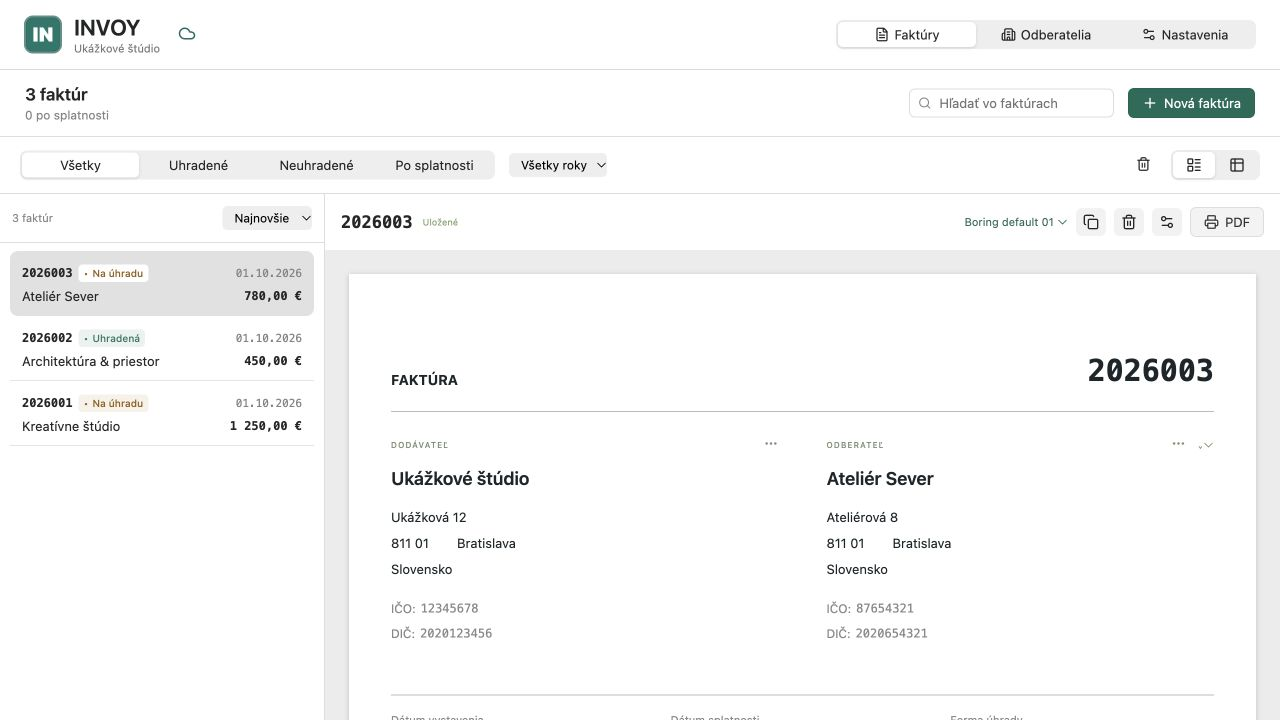
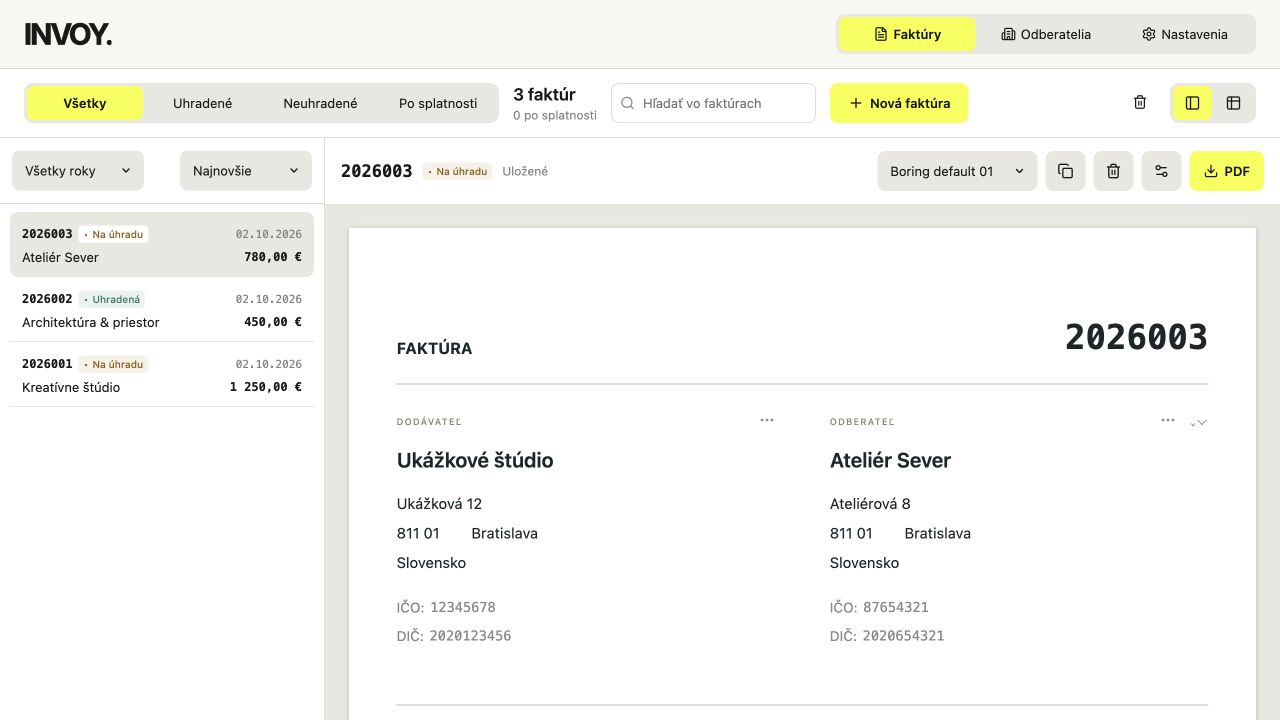
Aktualizovať náhľady aplikácie na marketingovej homepage

diff --git a/web/src/LandingA.tsx b/web/src/LandingA.tsx
@@ -127,7 +127,11 @@ export function LandingA({ config, error }: { config: LandingConfig | null; erro
             </div>
             <img
               className="home-product-image"
-              src={preview === 'invoice' ? '/product/invoice.jpg' : '/product/overview.jpg'}
+              src={
+                preview === 'invoice'
+                  ? '/product/invoice.jpg?v=20261002'
+                  : '/product/overview.jpg?v=20261002'
+              }
               alt={
                 preview === 'invoice'
                   ? 'INVOY: zoznam faktúr vľavo a úprava faktúry priamo na papieri vpravo.'

diff --git a/web/src/LandingB.tsx b/web/src/LandingB.tsx
@@ -316,7 +316,11 @@ export function LandingB({ config, error }: { config: LandingConfig | null; erro
                 <Cloud size={15} />
               </div>
               <img
-                src={preview === 'invoice' ? '/product/invoice.jpg' : '/product/overview.jpg'}
+                src={
+                  preview === 'invoice'
+                    ? '/product/invoice.jpg?v=20261002'
+                    : '/product/overview.jpg?v=20261002'
+                }
                 alt={
                   preview === 'invoice'
                     ? 'INVOY: zoznam faktúr a úprava faktúry priamo na papieri.'
